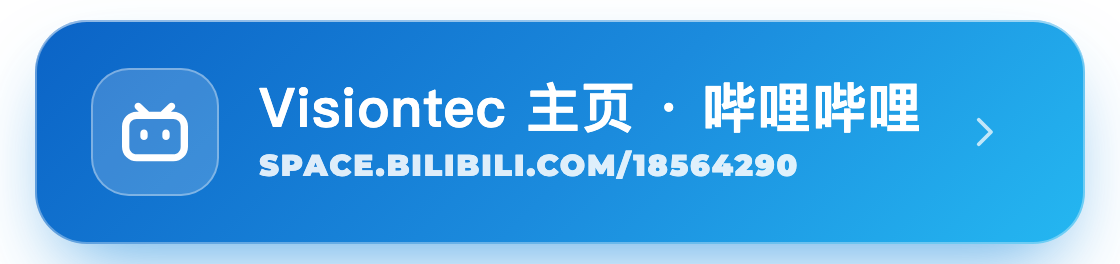
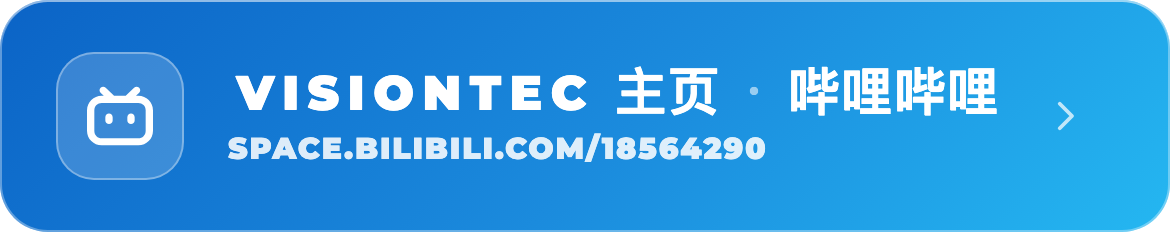
Rebrand README for Visiontec and recommend signing tools

diff --git a/design/readme/build.py b/design/readme/build.py
@@ -106,15 +106,17 @@ body {{ font-family:'PingFang SC',-apple-system,sans-serif; display:flex; align-
 .card {{ position:relative; overflow:hidden; width:1200px; height:330px; display:flex;
   flex-direction:column; align-items:center; justify-content:center; {card} {ring} }}
 .vmark {{ position:absolute; right:-60px; bottom:-230px; width:480px; {vmark} }}
-.lockup {{ position:relative; display:flex; align-items:center; gap:34px }}
-.icon {{ width:112px; height:112px; display:block; {icon} }}
-.wordmark {{ font-family:'Montserrat'; font-weight:900; font-size:84px; line-height:1;
-  letter-spacing:.18em; text-indent:.18em; white-space:nowrap; {wordmark} }}
-.rule {{ position:relative; width:300px; height:1px; margin:26px 0 18px; {rule} }}
+.lockup {{ position:relative; display:flex; align-items:center; gap:36px }}
+.icon {{ width:108px; height:108px; display:block; {icon} }}
+.headline {{ display:flex; align-items:baseline; gap:14px; font-family:'PingFang SC',sans-serif;
+  font-weight:600; font-size:70px; line-height:1; letter-spacing:.01em; {headline} }}
+.headline .lat {{ font-family:'Montserrat'; font-weight:900; font-size:70px; letter-spacing:.01em;
+  {lat} }}
+.rule {{ position:relative; width:250px; height:1px; margin:24px 0 16px; {rule} }}
 .diamond {{ position:absolute; left:50%; top:-2.5px; width:6px; height:6px;
   transform:translateX(-50%) rotate(45deg); {diamond} }}
-.eyebrow {{ position:relative; font-family:'Montserrat'; font-weight:900; font-size:15px;
-  letter-spacing:.44em; text-indent:.44em; {eyebrow} }}
+.brandline {{ position:relative; font-family:'Montserrat'; font-weight:900; font-size:23px;
+  letter-spacing:.20em; text-indent:.20em; {brandline} }}
 """
 
 HERO_THEMES = {
@@ -126,12 +128,13 @@ HERO_THEMES = {
         "vmark": "fill:#FFFFFF; opacity:.035",
         "icon": "filter:drop-shadow(0 18px 40px rgba(0,0,0,.62))",
         "ring": "box-shadow:inset 0 0 0 1px rgba(105,180,255,.13)",
-        "wordmark": """background:linear-gradient(180deg,#FFFFFF 0%,#EAF7FF 44%,#9FD4F5 100%);
+        "headline": """background:linear-gradient(180deg,#FFFFFF 0%,#EAF7FF 46%,#B9DFF7 100%);
           -webkit-background-clip:text; background-clip:text; color:transparent;
           filter:drop-shadow(0 8px 28px rgba(43,214,255,.16))""",
-        "rule": "background:linear-gradient(90deg,rgba(105,180,255,.75),rgba(105,180,255,0))",
+        "lat": "color:#8FA7C2",
+        "rule": "background:linear-gradient(90deg,rgba(105,180,255,.70),transparent)",
         "diamond": "background:#2BD6FF; box-shadow:0 0 9px rgba(43,214,255,.8)",
-        "eyebrow": "color:#5E7896",
+        "brandline": "color:#B9CCE0",
     },
     "light": {
         "card": """background:
@@ -141,12 +144,13 @@ HERO_THEMES = {
         "vmark": "fill:#0B63C6; opacity:.035",
         "icon": "filter:drop-shadow(0 10px 22px rgba(12,26,42,.16))",
         "ring": "box-shadow:inset 0 0 0 1px rgba(11,99,198,.12)",
-        "wordmark": """background:linear-gradient(180deg,#12294A 0%,#0C1A2A 58%,#1B4F86 100%);
+        "headline": """background:linear-gradient(180deg,#12294A 0%,#0C1A2A 58%,#1B4F86 100%);
           -webkit-background-clip:text; background-clip:text; color:transparent;
           filter:drop-shadow(0 6px 20px rgba(11,99,198,.12))""",
-        "rule": "background:linear-gradient(90deg,rgba(11,99,198,.50),rgba(11,99,198,0))",
+        "lat": "color:#4C6076",
+        "rule": "background:linear-gradient(90deg,rgba(11,99,198,.45),transparent)",
         "diamond": "background:#0B63C6; box-shadow:0 0 7px rgba(11,99,198,.4)",
-        "eyebrow": "color:#7C93AD",
+        "brandline": "color:#3F5873",
     },
 }
 
@@ -154,10 +158,10 @@ HERO_BODY = """<div class="card">
   <svg class="vmark" viewBox="0 0 1177 1000"><path d="{v}"/></svg>
   <div class="lockup">
     <img class="icon" src="{icon}">
-    <div class="wordmark">VISIONTEC</div>
+    <div class="headline"><span class="lat">DUO</span>你电脑</div>
   </div>
   <div class="rule"><span class="diamond"></span></div>
-  <div class="eyebrow">MAC REMOTE DESKTOP</div>
+  <div class="brandline">VISIONTEC</div>
 </div>"""
 
 
@@ -166,15 +170,18 @@ HERO_BODY = """<div class="card">
 CTA_CSS = """
 body { font-family:'PingFang SC',-apple-system,sans-serif; display:flex; align-items:center;
   justify-content:center }
-.btn { display:inline-flex; align-items:center; gap:20px; padding:24px 40px 24px 28px;
-  border-radius:26px; background:linear-gradient(135deg,#0B63C6 0%,#1B8BDD 54%,#2BD6FF 132%);
-  box-shadow:0 18px 40px -14px rgba(27,139,221,.75), inset 0 0 0 1px rgba(255,255,255,.34),
-  inset 0 1px 0 rgba(255,255,255,.30) }
+.btn { display:inline-flex; align-items:center; gap:22px; padding:26px 42px 26px 28px;
+  border-radius:24px; background:linear-gradient(135deg,#0B63C6 0%,#1B8BDD 54%,#2BD6FF 132%);
+  box-shadow:inset 0 0 0 1px rgba(255,255,255,.34), inset 0 1px 0 rgba(255,255,255,.30) }
 .plate { display:flex; align-items:center; justify-content:center; width:64px; height:64px;
   border-radius:19px; background:rgba(255,255,255,.18);
   box-shadow:inset 0 0 0 1px rgba(255,255,255,.34) }
 .text { display:flex; flex-direction:column; gap:6px }
-.label { font-size:27px; font-weight:600; color:#fff; letter-spacing:.02em; line-height:1 }
+.label { display:flex; align-items:baseline; gap:10px; font-size:26px; font-weight:600; color:#fff;
+  letter-spacing:.02em; line-height:1 }
+.label .brand { font-family:'Montserrat'; font-weight:900; font-size:24px; letter-spacing:.18em;
+  text-indent:.18em; color:#fff }
+.label .sep { color:rgba(255,255,255,.55); font-weight:400 }
 .sub { font-size:15px; color:rgba(255,255,255,.86); letter-spacing:.06em;
   font-family:'Montserrat','PingFang SC',sans-serif; font-weight:900 }
 .chev { color:rgba(255,255,255,.72) }
@@ -185,12 +192,13 @@ def cta(work):
     body = f"""<div class="btn">
   <span class="plate"><svg viewBox="0 0 24 24" width="33" height="33"><path fill="#fff"
     d="{BILIBILI}"/></svg></span>
-  <span class="text"><span class="label">Visiontec 主页 · 哔哩哔哩</span>
+  <span class="text"><span class="label"><span class="brand">VISIONTEC</span>主页
+  <span class="sep">·</span>哔哩哔哩</span>
   <span class="sub">SPACE.BILIBILI.COM/18564290</span></span>
   <svg class="chev" viewBox="0 0 24 24" width="21" height="21" fill="none" stroke="currentColor"
     stroke-width="2.2" stroke-linecap="round" stroke-linejoin="round"><path d="M9 5l7 7-7 7"/></svg>
 </div>"""
-    return work.render("cta-bilibili", body, CTA_CSS, 560, 132)
+    return work.render("cta-bilibili", body, CTA_CSS, 720, 168)
 
 
 # -------------------------------------------------------------- screenshots
@@ -276,7 +284,7 @@ def main():
                              HERO_CSS.format(**HERO_THEMES[theme]), 1200, 330)
             print(save_jpeg(im, f"hero-{theme}", 92, width=1600))
 
-        print(save_png(cta(work), "cta-bilibili"))
+        print(save_png(cta(work), "cta-bilibili", trim=True))
 
         for index, (key, value, background, _) in enumerate(BADGES):
             save_png(badge(work, index, key, value, background), f"badge-{index}", trim=True)

diff --git a/Signing/README.md b/Signing/README.md
@@ -1,59 +1,35 @@
-# 自签名和 Mac 自动续签
+# iOS 签名安装与续签
 
-下载 Release IPA 后用 Sideloadly 或 AltStore 安装，见 [安装文档](../docs/INSTALL.md)。以下步骤适用于通过 Xcode 从本仓库源码构建、安装和续签。
+DUO你电脑的 iOS 客户端使用免费 Apple 个人团队签名时，描述文件通常 7 天后到期。安装与续签请使用成熟的自签名工具。
 
-使用 Xcode 账户中的开发签名，把应用装到自己配对的 iPhone Duo。工具不保存 Apple 账号密码，不上传代码到签名平台，不在手机上放置续签服务。
+## 推荐工具
 
-Apple 免费 Personal Team 的设备描述文件有效期为 7 天，具体以应用内嵌描述文件的 `ExpirationDate` 为准。[Apple 账户说明](https://developer.apple.com/help/account/basics/about-your-developer-account)同时列出了免费账号的应用和设备数量限制。Xcode 自动签名的行为见 [Signing & Capabilities workflow](https://help.apple.com/xcode/mac/current/en.lproj/dev60b6fbbc7.html)。
+| 工具 | 说明 | 官方入口 |
+| :--- | :--- | :--- |
+| **Sideloadly** | macOS / Windows，USB 或 Wi-Fi 安装；内置自动刷新守护进程，可在设置中选择要刷新的应用和刷新计划 | [sideloadly.io](https://sideloadly.io/) |
+| **AltStore Classic** | 需要同一网络中的 Mac 运行 AltServer；可在后台自动刷新，也可以手动 Refresh | [altstore.io](https://altstore.io/) · [安装指南](https://faq.altstore.io/getting-started/how-to-install-altstore-macos) |
+| **SideStore** | 首次安装后无需电脑，通过 Wi-Fi 刷新；需要配对文件与 StosVPN | [sidestore.io](https://sidestore.io/) · [文档](https://docs.sidestore.io/) |
 
-## 第一次安装
+## 使用 Sideloadly 续签
 
-1. 在 Xcode 设置的 Accounts 登录自己的 Apple 账号。把 Duo 连接并信任这台 Mac，开启手机的 Developer Mode。先在 Xcode 运行一次应用，完成必要的系统确认。
-2. 创建只在本机保存的配置：
+1. 在 Mac 或 Windows 打开 Sideloadly，用 USB 连接 Duo 并信任电脑。
+2. 选择 `DUO-iOS-unsigned.ipa`，登录用于签名的 Apple 账号并安装。更新时保持同一账号、Team 与 Bundle ID 覆盖安装，才能保留应用数据和配对。
+3. 在 Sideloadly 的设置中开启自动刷新，选择要刷新的应用与刷新计划；保持电脑和手机可连接，或到期前手动重新安装同一 IPA。
+4. 下载与常见问题见 [Sideloadly 官方网站](https://sideloadly.io/)。
 
-   ```sh
-   mkdir -p Local
-   cp Signing/signing.example.json Local/signing.json
-   chmod 600 Local/signing.json
-   ```
+## 使用 AltStore Classic 刷新
 
-3. 填写 Xcode 选中的 `team_id`、设备的 UDID 作为 `device_id`，以及自己的 `bundle_id`。`xcrun devicectl list devices` 的 Identifier 列会标明所显示的标识种类：只有标为 UDID 的值才能用于描述文件的设备校验；CoreDevice ID 或 ECID 不能当作 UDID。后续保持同一 Team 和 Bundle ID，覆盖安装才可保留应用数据和配对。
-4. 运行 `python3 Signing/renew.py --force`。工具读取当前项目的最新源码（包括未提交修改），为本次构建保存一致的本地快照，再使用 Xcode 的账户会话构建、验签和覆盖安装。首次签名或新设备注册会访问 Apple 开发服务。安装前后都会读取手机上的实际版本，核对成功才更新安装记录。
+1. 按[官方安装指南](https://faq.altstore.io/getting-started/how-to-install-altstore-macos)在 Mac 上安装 AltServer 与 AltStore Classic，并登录同一 Apple 账号。
+2. 把 IPA 导入 AltStore 完成安装；在 My Apps 中点击 Refresh，或让 AltServer 在同一网络时后台刷新。
+3. 更多说明见 [AltStore FAQ](https://faq.altstore.io/altstore-classic/your-altstore)。
 
-## 自动续签
+## 使用 SideStore 刷新
 
-```sh
-python3 Signing/renew.py --status
-python3 Signing/renew.py --enable-auto
-python3 Signing/renew.py --renew-now
-```
+1. 按 [SideStore 文档](https://docs.sidestore.io/)准备配对文件并完成首次安装。
+2. 在 SideStore 中刷新已安装的应用；首次安装之后不需要连接电脑，但需要可用的 Wi-Fi 与 StosVPN。
 
-启用后在这台 Mac 当前用户登录时运行，默认每 24 小时尝试续签一次；检测到指定手机重新连接时也会尝试。`renew_interval_hours` 可调整日常间隔，未设置时为 24。任务每分钟只读取本机 CoreDevice 的设备状态，不为此唤醒睡眠中的 Mac；运行中的签名任务不会并发启动另一份。手机离线时不构建，下一次检测到连接后再尝试。如果续签失败且距离到期不超过 48 小时，仍连接时最多每 6 小时重试一次。连接检测依赖 Xcode 与系统报告的设备状态，手机在两次检查之间短暂连接又断开时可能无法触发。
+## 说明
 
-每次自动尝试使用 Xcode 的已有账户会话获取新描述文件，只有有效期确实比已安装版本更晚，且身份、设备与签名校验通过时才覆盖安装。Xcode 可能复用旧文件或无法签发新的文件：这种情况不会被记作续签成功，原安装记录和应用保留。重新安装会短暂中断手机上的应用；实际构建和签名时有短时 CPU、磁盘和网络开销，空闲时不持续编译。
-
-**每次续签都重新读取当前项目的最新源码。** 每日任务、手机重连和失败重试使用相同规则，不再从历史安装记录或上次中断的快照选择源码。快照只用于保证本次构建的一致性；工具不自动拉取 GitHub，更新远程源码后应先同步到这份项目。代码有变化而版本号与手机相同时，工具会提升构建号；源码版本已经落后于手机时，必须先更新源码，不能通过升号或 `--force` 覆盖新版。
-
-同一台手机建议只由一台主要 Mac 续签，并在这台 Mac 保持源码最新。切换电脑时，先在旧电脑执行 `python3 Signing/renew.py --disable-auto`，再在新电脑启用。安装脚本与续签共用版本检查：构建前检查一次，安装前再检查一次，防止构建期间其他电脑更新了手机；安装后手机报告的版本必须与产物一致。
-
-任务只安装到本地配置指定的设备，不会卸载应用或撤销证书。快照位于已忽略的 `Local/signing-sources/`，只复制源码和资源，排除 Xcode 个人配置、构建产物、常见密钥和描述文件，不复制 `Local/` 配置或配对资料；构建前后都会校验。启用命令若设置了 `DEVELOPER_DIR`，后台任务会保留这个 Xcode 路径；否则使用系统当前选择的工具链。再次执行 `--enable-auto` 会更新本机已有任务，更新失败时恢复此前配置。
-
-签名刷新由 Xcode 的 `-allowProvisioningUpdates` 完成。安装前工具检查应用、Team、设备、签名和到期时间。自动续签必须延长有效期；手动 `--force` 更新代码时可以使用与安装记录到期时间相同、且仍有效的描述文件，无需剩余超过 48 小时。任何模式都拒绝比已安装记录更早到期的描述文件。中断后，设备在线时下一次检查会立即用当前最新源码重试；再次失败后按日程、设备重连及临期规则重试，不会每分钟反复构建。设备没有通过安装后版本核对，不会写入成功状态；失败保留最近一次成功安装记录。
-
-普通构建沿用未延长的描述文件时，自动续签会采用 Apple [描述文件说明](https://developer.apple.com/help/account/provisioning-profiles/edit-download-or-delete-profiles/)中的缓存刷新方式：仅定位与本应用、团队和目标设备都精确匹配的有效文件，先把原件备份到仅本机可访问、已忽略的 `Local/signing-profile-backups/`，临时移出 Xcode 缓存，再从本次最新源码快照隔离构建。构建后先恢复缓存，再验证签名并尝试安装；如果同名文件已被 Xcode 替换，会保留新旧两份，绝不覆盖。进程意外中断留下的事务会在下一次自动检查时恢复。不会处理其他应用或通配符描述文件，也不会上传备份。
-
-若找不到本应用的匹配缓存，工具会尝试 Xcode 的自动签名归档与调试导出；归档及 IPA 只暂存在 `Local/` 的私有临时目录。无论采用哪条路径，都使用本次最新源码快照，仍须通过 Team、应用、设备、签名和有效期检查，以及安装后的实际版本核对。
-
-Mac 关机、休眠、未登录，手机不可连接、未信任、Developer Mode 关闭，或者 Apple 账户需要重新认证时，任务无法完成。手机需要通过 USB 或 Xcode 已配对的无线连接可达；远程桌面的公网连接不等于可进行开发安装。应用自身不能延长 iOS 签名有效期。
-
-macOS 可能限制后台 Python 读取「桌面」「文稿」「下载」。若后台日志出现 `Operation not permitted`，可将项目放在 `~/Developer/` 等普通目录后重新启用任务，或使用已获该目录访问权限的 Python 执行 `--enable-auto`。终端中手动续签成功，并不代表后台任务也有相同权限。
-
-查看 `Local/signing-status.json` 中最近一次成功安装的版本、构建号、源码摘要和到期时间，`Local/signing-monitor.json` 中的连接检查和最近尝试，以及 `Local/signing-error.json`、`Local/signing-build.log`、`Local/renewal-error.log`。`newer_version_installed` 表示这台 Mac 的源码落后于手机，未构建或安装。错误文件不会因后续成功自动删除，检查其时间即可判断是否为历史记录。日志仅在本地，可能包含设备或签名元数据，反馈问题前应删去个人信息。真实设备的跨 7 天续签仍待验收。
-
-## 停用
-
-```sh
-python3 Signing/renew.py --disable-auto
-```
-
-只移除本工具的用户后台任务，保留应用、钥匙串、证书、描述文件和本地日志。
+- 免费 Apple 账号的限制由 Apple 管理：应用通常每 7 天需要续签，同时可安装的应用数量也有限，具体以系统或工具显示为准。参见 [Apple 账户说明](https://developer.apple.com/help/account/basics/about-your-developer-account)。
+- 续签时使用与安装时相同的 Apple 账号、Team 与 Bundle ID；卸载应用或更换签名身份后，可能需要在 Mac 上重新配对。
+- 从源码构建和用 Xcode 安装见[安装文档](../docs/INSTALL.md)。

diff --git a/docs/INSTALL.md b/docs/INSTALL.md
@@ -25,13 +25,17 @@ Mac 应用要求 macOS 27 或更新版本，iOS 客户端要求 iOS / iPadOS 27.
 2. 用 USB 连接并在 iPhone 上信任电脑。按设备和工具提示启用「设置 → 隐私与安全性 → 开发者模式」，完成重启确认。
 3. 打开 Sideloadly，选择手机，把 `DUO-iOS-unsigned.ipa` 拖进去，登录自己的 Apple 账号并完成签名安装。
 4. 按手机提示在「通用 → VPN 与设备管理」中信任开发者，然后打开应用。
-5. 在 Sideloadly 中配置自动续签。电脑与设备必须在续签时可达，首次安装使用 USB 更容易排查问题。
+5. 在 Sideloadly 设置中开启自动刷新，选择要刷新的应用与计划；电脑与设备需要在续签时可达。也可以到期前重新安装同一 IPA。
 
 这些步骤依据工具官方安装方式整理，本项目当前 IPA 还需在真实设备上完成 Sideloadly 安装、启动、配对与到期续签验收。[Sideloadly 官方说明](https://sideloadly.io/)
 
 ### AltStore Classic
 
 先按 AltStore 官方流程安装 AltServer 与 AltStore Classic，再在手机的 My Apps 页面导入本项目 IPA。安装后保持 AltServer 可达并在到期前刷新签名。AltStore 本身也占一个免费开发应用名额。项目当前 IPA 的 AltStore 安装仍待真机验收。[AltStore Classic 安装入口](https://faq.altstore.io/)、[刷新与应用数量说明](https://faq.altstore.io/altstore-classic/your-altstore)
+
+### SideStore
+
+按 [SideStore 文档](https://docs.sidestore.io/)准备配对文件并完成首次安装。之后无需连接电脑，通过 Wi-Fi 刷新已安装的应用；需要 StosVPN 保持可用。项目当前 IPA 的 SideStore 安装仍待真机验收。
 
 更新时保持相同签名账号、Team 与 Bundle Identifier，覆盖安装有助于保留设置和配对。卸载或更换签名身份可能需要重新配对。
 
@@ -42,7 +46,7 @@ Mac 应用要求 macOS 27 或更新版本，iOS 客户端要求 iOS / iPadOS 27.
 3. 在 Target 的 Signing & Capabilities 中选择自己的 Team，并将 Bundle Identifier 改为你可用的唯一标识，例如 `com.yourname.duodesk`。
 4. 连接手机，选择目标设备，开启开发者模式后运行。
 
-本地持续续签工具的配置、启停与失败处理见 [Signing/README.md](../Signing/README.md)。跨到期自动续签仍需真机验收。
+安装与续签步骤见 [签名与续签指南](../Signing/README.md)。
 
 ## 首次连接
 

diff --git a/README.md b/README.md
@@ -3,7 +3,7 @@
 <picture>
   <source media="(prefers-color-scheme: dark)" srcset="docs/images/readme/hero-dark.jpg">
   <source media="(prefers-color-scheme: light)" srcset="docs/images/readme/hero-light.jpg">
-  <img src="docs/images/readme/hero-light.jpg" alt="Visiontec · 文字 Logo" width="860">
+  <img src="docs/images/readme/hero-light.jpg" alt="DUO你电脑 · VISIONTEC 文字 Logo" width="860">
 </picture>
 
 # DUO你电脑
@@ -12,9 +12,7 @@
 
 <br>
 
-<a href="https://space.bilibili.com/18564290">
-  <img src="docs/images/readme/cta-bilibili.png" alt="Visiontec 主页 · 哔哩哔哩" width="300">
-</a>
+<p align="center"><a href="https://space.bilibili.com/18564290"><img src="docs/images/readme/cta-bilibili.png" alt="Visiontec 主页 · 哔哩哔哩" width="340"></a></p>
 
 <br>
 
@@ -70,9 +68,9 @@
 | **macOS 27+** | `DUO-macOS-universal.dmg` | 将应用放入「应用程序」，首次启动按系统提示手动放行 |
 | **iOS / iPadOS 27.1+** | `DUO-iOS-unsigned.ipa` | 使用 Sideloadly 或 AltStore Classic，用自己的 Apple 账号重签安装 |
 
-主要适配 iPhone Duo，两端需支持硬件 HEVC。Mac 包包含 Apple Silicon 与 Intel 版本。免费 Apple 账号通常每 7 天需要续签一次。
+主要适配 iPhone Duo，两端需支持硬件 HEVC。Mac 包包含 Apple Silicon 与 Intel 版本。免费 Apple 账号通常每 7 天需要续签一次；推荐使用 [Sideloadly](https://sideloadly.io/)、[AltStore Classic](https://altstore.io/) 或 [SideStore](https://sidestore.io/) 安装与续签。
 
-[详细安装步骤](docs/INSTALL.md) · [自动续签](Signing/README.md)
+[详细安装步骤](docs/INSTALL.md) · [签名与续签指南](Signing/README.md)
 
 <details>
 <summary><b>从源码构建</b></summary>
@@ -150,17 +148,6 @@ Mac 仍在运行时，已配对的设备连接会请求唤亮显示器；如果 
 </details>
 
 ---
-
-<div align="center">
-
-<a href="https://space.bilibili.com/18564290">
-  <img src="docs/images/readme/cta-bilibili.png" alt="Visiontec 主页 · 哔哩哔哩" width="340">
-</a>
-
-**Visiontec** 在哔哩哔哩记录远程桌面、Mac 效率与自制工具。<br>
-<sub>点击上方按钮，或前往 <a href="https://space.bilibili.com/18564290">space.bilibili.com/18564290</a></sub>
-
-</div>
 
 ## 开源与贡献
 

diff --git a/CONTRIBUTING.md b/CONTRIBUTING.md
@@ -2,6 +2,6 @@
 
 先阅读 [README](README.md) 与 [开发说明](docs/DEVELOPMENT.md)，使用正式版 Xcode 27.1 或更新版本构建。保持 Apple 原生框架实现，视频、指针和编码路径避免每帧触发 SwiftUI 布局。
 
-修改键盘、布局或续签工具后运行 `Tests/duodesk/run.sh`；修改上游传输核心后运行对应的 `Tests/checks/<name>/run.sh`。提交涉及 UI 的改动时附上 Duo 半折叠、展平、合盖的验证范围；只在模拟器验证的结果请直接说明。
+修改键盘或布局后运行 `Tests/duodesk/run.sh`；修改上游传输核心后运行对应的 `Tests/checks/<name>/run.sh`。提交涉及 UI 的改动时附上 Duo 半折叠、展平、合盖的验证范围；只在模拟器验证的结果请直接说明。
 
 不要提交 `Local/`、描述文件、证书、Apple 账号信息或真实设备标识。Apache-2.0 许可证和 Sill 来源说明必须保留。发布流程见 [发布清单](docs/release-checklist.md)，安装步骤见 [安装文档](docs/INSTALL.md)。GitHub 仓库为 `xav1erwang/DuoDesk`。

diff --git a/design/README.md b/design/README.md
@@ -62,9 +62,10 @@
   iPad, as a template image. `SillMenuBar -SillRenderPreviews <dir>` writes
   `glyphs.png` with every state on light and dark bars.
 - `readme/build.py` renders the README's images into `docs/images/readme/`:
-  the Visiontec lockup (Montserrat Black at the wordmark's 0.18em tracking,
-  the icon's own V as a watermark, the deep-blue tokens from MacTheme), the
-  Bilibili button, and the product renders cropped onto rounded plates. A
+  the product banner (the icon, "DUO你电脑", and the VISIONTEC wordmark in
+  Montserrat Black at its 0.18em tracking, with the icon's V as a watermark
+  and the deep-blue tokens from MacTheme), the Bilibili button, and the
+  product renders cropped onto rounded plates. A
   dark and a light banner are written, and `README.md` picks between them with
   `<picture>` and `prefers-color-scheme`. Needs macOS 27, Google Chrome (the
   layout and gradients), Pillow, and `ictool` for the app icon:
